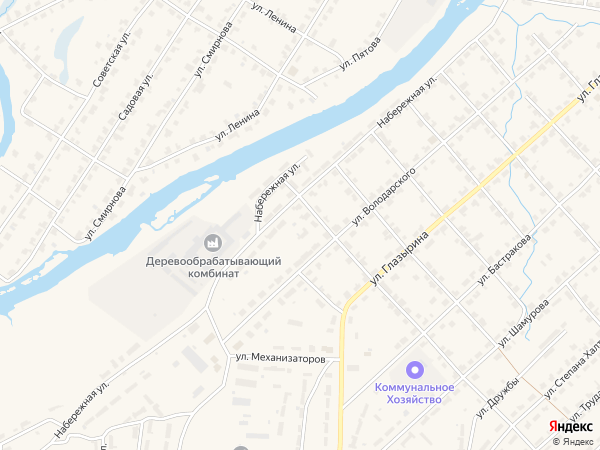
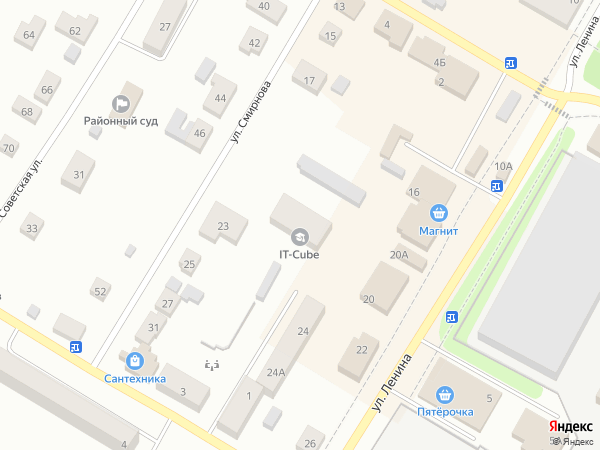
api2

diff --git a/api2.py b/api2.py
@@ -24,13 +24,13 @@ class YandexAPI:
             session.mount('http://', adapter)
             session.mount('https://', adapter)
             params['apikey'] = self.apikey
-            response = session.get('https://static-maps.yandex.ru/v2',
+            response = session.get('https://static-maps.yandex.ru/v1',
                                    params=params)
             img = Image.open(BytesIO(response.content))
             img.save('result.png')
             return 'result.png'
         except Exception as e:
-            return e
+            return str(e)
 
 
 if __name__ == "__main__":
